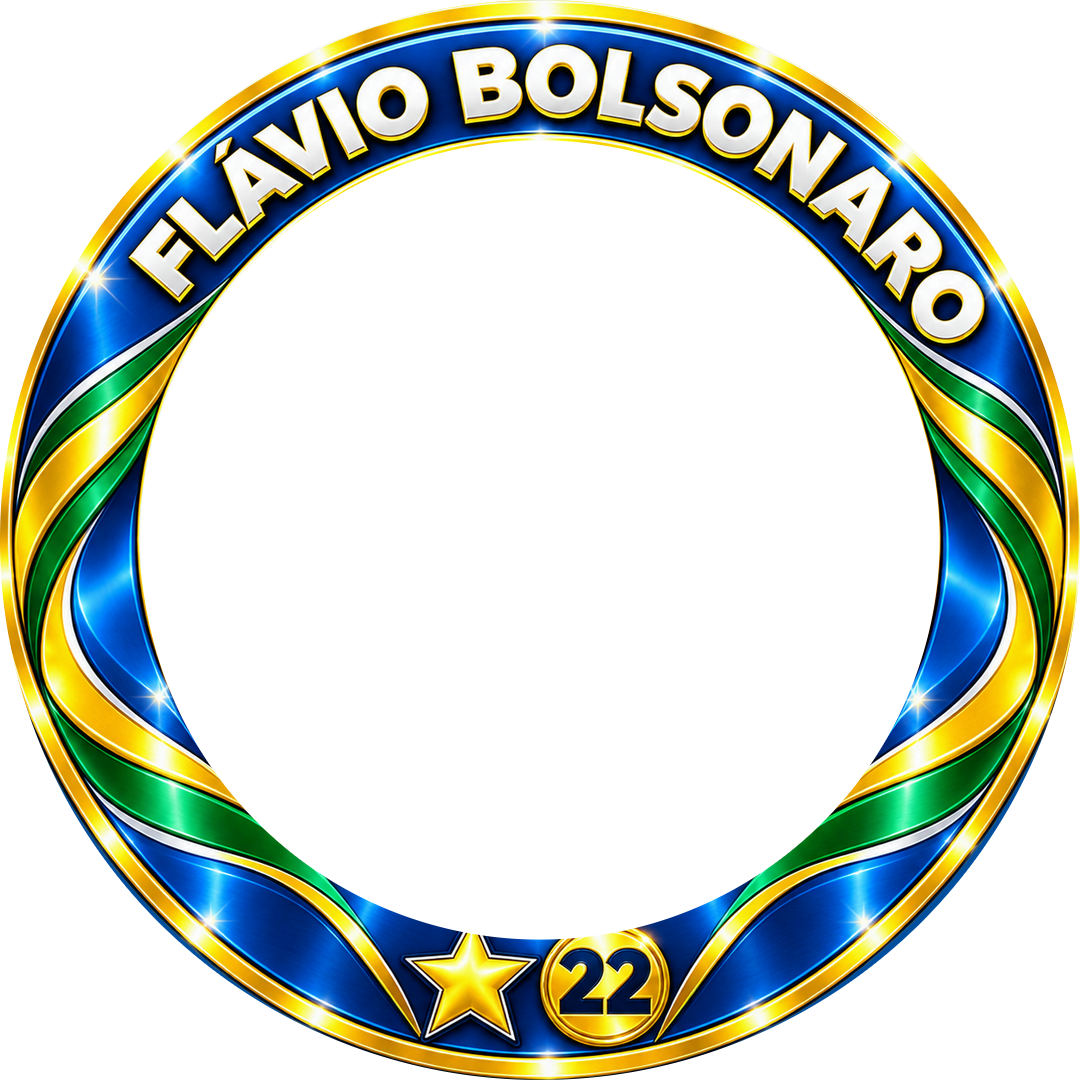
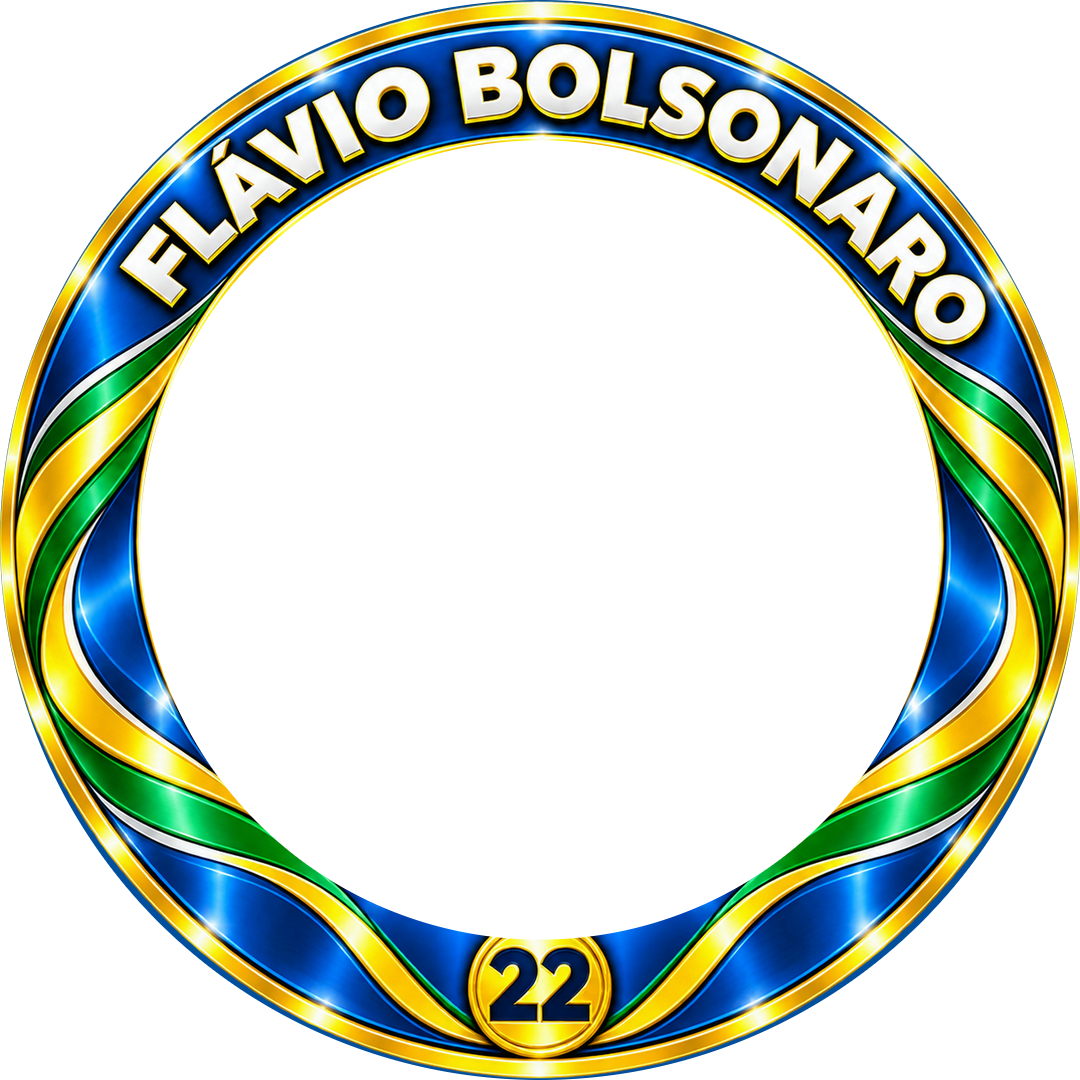
feat: estilo Estrela passa a se chamar Destaque e a do Flávio fica sem estrela
A moldura do Flávio troca a estrela por só o selo dourado do 22
centralizado embaixo (azul com fitas verde e amarela, sem estrela
nenhuma). O id continua "estrela" para não quebrar links nem pedidos;
o nome exibido vira "Destaque". A do Lula mantém a estrela vermelha.

Changed region(s): [[0.0, 0.0, 1.0, 1.0]]

diff --git a/common/src/common.check.ts b/common/src/common.check.ts
@@ -163,7 +163,7 @@ test("OrderSchema: id é uuid e downloadUrl é URL http/https ou null", () => {
 
 test("FRAME_STYLES tem os 13 estilos, nesta ordem, e findFrameStyle acha por id", () => {
   assert.deepEqual(FRAME_STYLES.map((style) => style.id), ["classica", "faixa", "listras", "fina", "ondas", "geometrica", "campanha", "vibrante", "moderna", "retro", "metalica", "torcida", "estrela"]);
-  assert.deepEqual(FRAME_STYLES.slice(6).map((style) => style.name), ["Campanha", "Vibrante", "Moderna", "Retrô", "Metálica", "Torcida", "Estrela"]);
+  assert.deepEqual(FRAME_STYLES.slice(6).map((style) => style.name), ["Campanha", "Vibrante", "Moderna", "Retrô", "Metálica", "Torcida", "Destaque"]);
   assert.equal(frameFileName("flavio-bolsonaro", "estrela"), "flavio-bolsonaro--estrela.png");
   assert.equal(findFrameStyle("partido"), undefined);
   assert.equal(findFrameStyle("faixa")?.name, "Faixa");

diff --git a/common/src/frame-styles.ts b/common/src/frame-styles.ts
@@ -11,7 +11,8 @@ export const FRAME_STYLES = [
   { id: "retro", name: "Retrô" },
   { id: "metalica", name: "Metálica" },
   { id: "torcida", name: "Torcida" },
-  { id: "estrela", name: "Estrela" },
+  // id "estrela" mantido para não quebrar links (?e=estrela) nem pedidos; o nome exibido é "Destaque".
+  { id: "estrela", name: "Destaque" },
 ] as const;
 
 export type FrameStyleId = (typeof FRAME_STYLES)[number]["id"];

diff --git a/README.md b/README.md
@@ -20,7 +20,7 @@ O cliente vê a prévia grátis (com marca d'água), paga R$ 3,99 por Pix (Woovi
 
 ## Molduras
 
-As molduras dos candidatos são **arquivos curados** (desenhados à parte, com o Codex, e revisados), um por candidato e estilo, em `api/assets/frames/`: `<id>.png` para o estilo Clássica e `<id>--<estilo>.png` para os demais (`frameFileName` em `common/src/frame-styles.ts`). Estilos (`FRAME_STYLES`, 13, nesta ordem): Clássica (`classica`), Faixa (`faixa`), Listras (`listras`), Fina (`fina`), Ondas (`ondas`), Geométrica (`geometrica`), Campanha (`campanha`), Vibrante (`vibrante`), Moderna (`moderna`), Retrô (`retro`), Metálica (`metalica`), Torcida (`torcida`) e Estrela (`estrela`, com uma estrela genérica de cinco pontas lisa, sem letras: vermelha no Lula, amarela no Flávio). Todos têm 1080×1080, PNG RGBA sem metadados, anel opaco, furo transparente até o raio interno (~400 px) e cantos transparentes, sem rostos e sem logotipo, emblema ou símbolo de partido. O antigo estilo Partido (com os logotipos do PT e do PL) foi removido: o link `/criar?e=partido` abre a Clássica e pedidos antigos gravados com `frame_style = 'partido'` são compostos com a Clássica.
+As molduras dos candidatos são **arquivos curados** (desenhados à parte, com o Codex, e revisados), um por candidato e estilo, em `api/assets/frames/`: `<id>.png` para o estilo Clássica e `<id>--<estilo>.png` para os demais (`frameFileName` em `common/src/frame-styles.ts`). Estilos (`FRAME_STYLES`, 13, nesta ordem): Clássica (`classica`), Faixa (`faixa`), Listras (`listras`), Fina (`fina`), Ondas (`ondas`), Geométrica (`geometrica`), Campanha (`campanha`), Vibrante (`vibrante`), Moderna (`moderna`), Retrô (`retro`), Metálica (`metalica`), Torcida (`torcida`) e Destaque (id `estrela`: no Lula, uma estrela genérica vermelha de cinco pontas lisa, sem letras, ao lado do 13; no Flávio, sem estrela nenhuma, só o selo dourado do 22 centralizado embaixo). Todos têm 1080×1080, PNG RGBA sem metadados, anel opaco, furo transparente até o raio interno (~400 px) e cantos transparentes, sem rostos e sem logotipo, emblema ou símbolo de partido. O antigo estilo Partido (com os logotipos do PT e do PL) foi removido: o link `/criar?e=partido` abre a Clássica e pedidos antigos gravados com `frame_style = 'partido'` são compostos com a Clássica.
 - Para trocar ou acrescentar uma moldura: gere a arte no mesmo formato, salve no nome certo (limpe metadados com sharp: `sharp(arquivo).png()`), rode `pnpm --filter @moldura/api test` (o `frames.check.ts` valida cada candidato × estilo com `validateFrame` e confere o tamanho do furo) e `pnpm --filter @moldura/api frames:sheet` para ver a folha de prévia.
 - `pnpm frames:build` (alias de `frames:placeholder`) **só** gera a moldura neutra (`neutral.png`, prévia do `/criar`) e a de exemplo (`exemplo.png`, topo da home) com o desenhador de glifos (sem `<text>`); ele nunca sobrescreve as molduras curadas dos candidatos (testado).
 - O web (`sync-frames.mjs`) copia os PNG de 1080 (usados na prévia do `/criar` e na montagem da api) e gera um WebP de 480 px de cada um (miniaturas e home).
